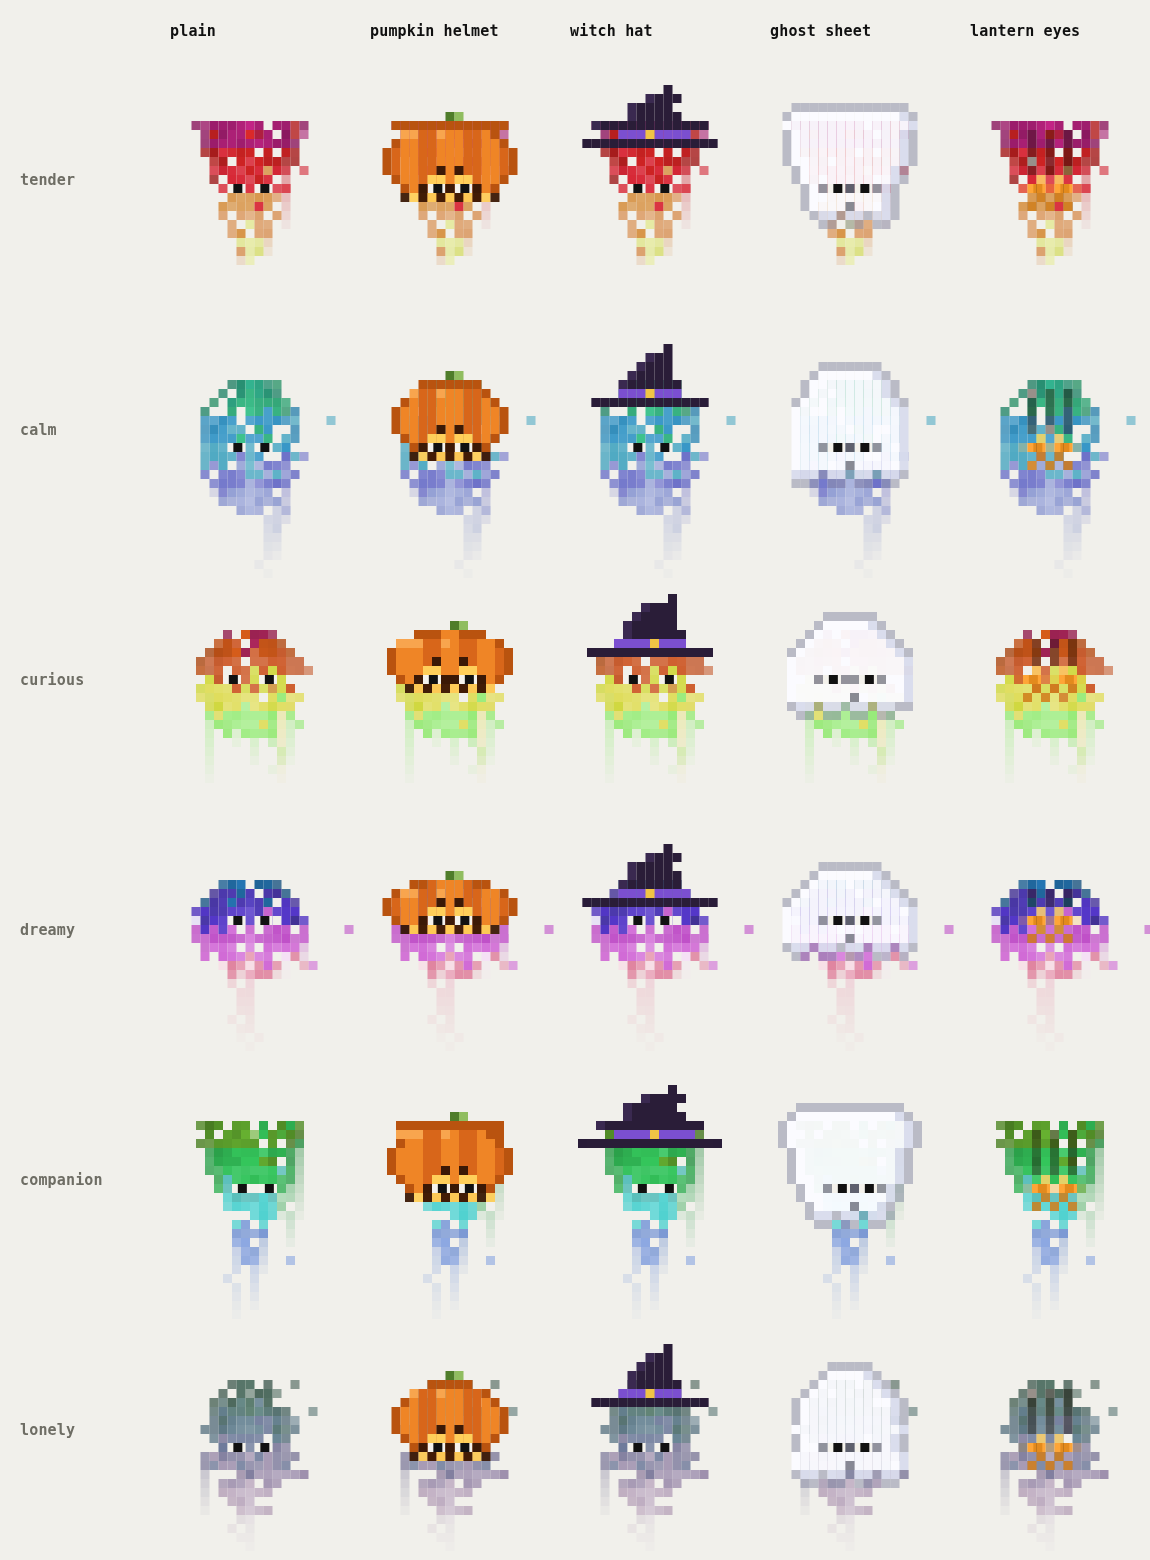
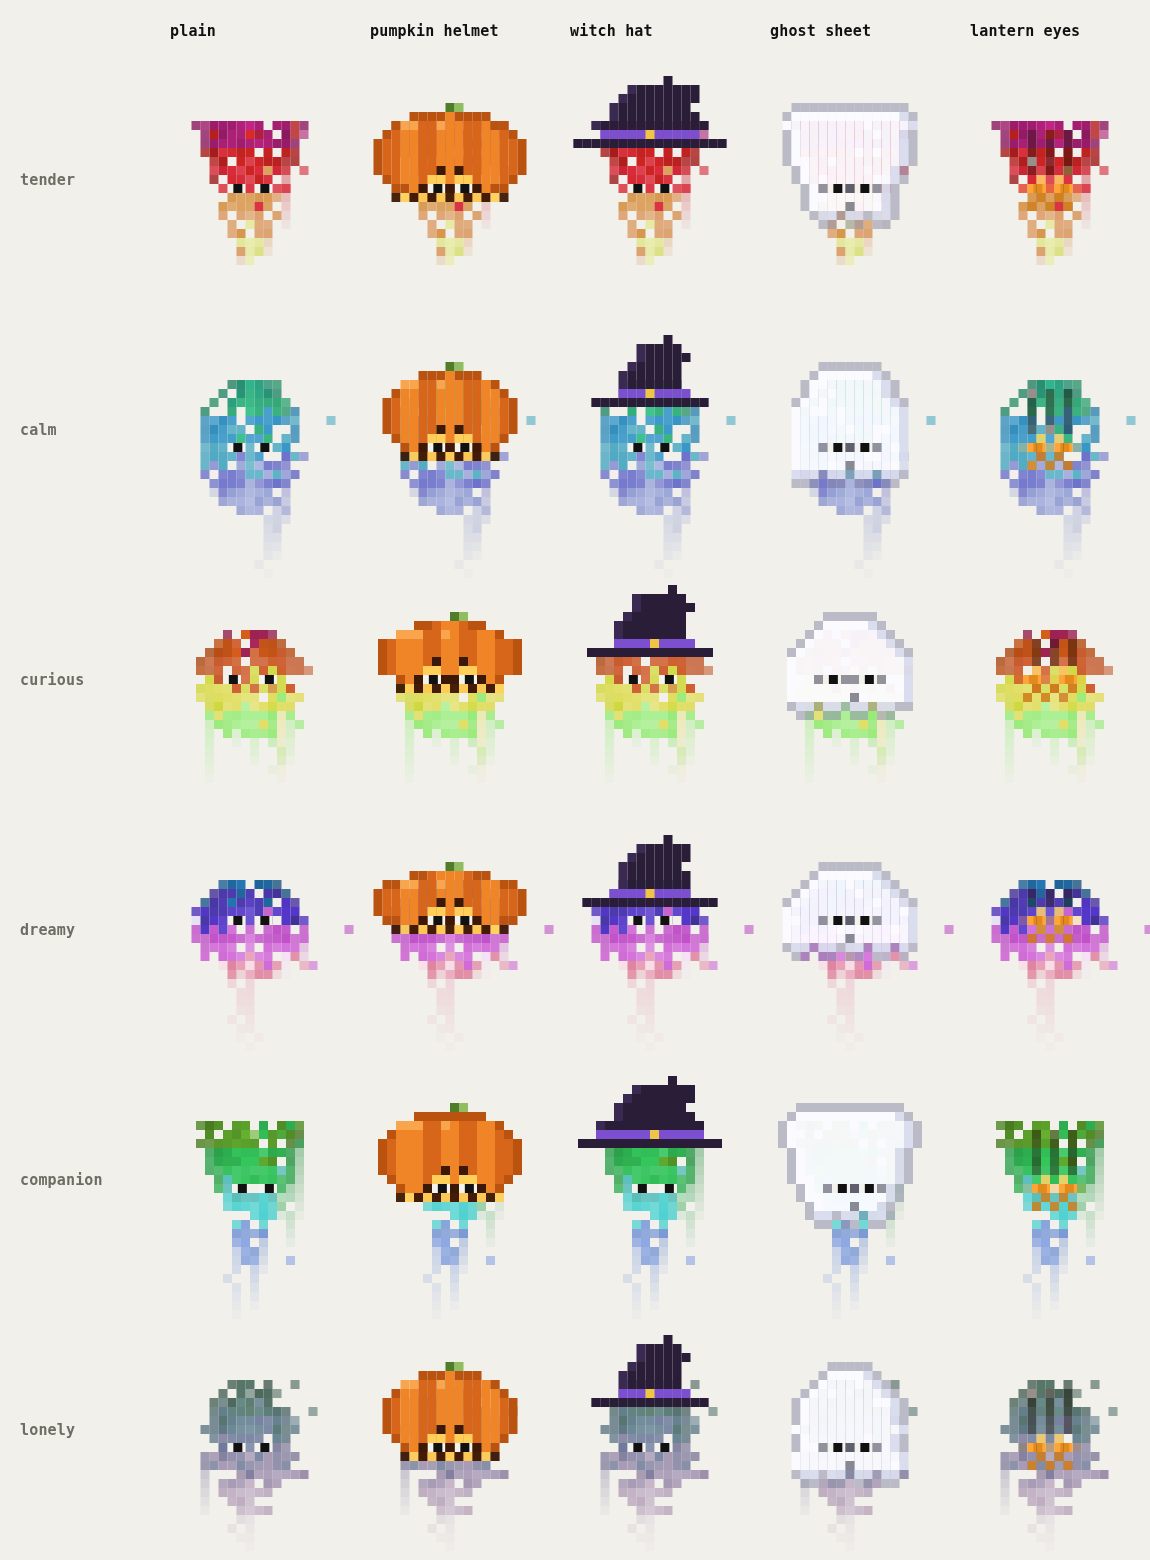
halloween: bigger pumpkin and witch hat that cover the whole cap
Claude-Session: https://claude.ai/code/session_01F351BE8WNbsDJxZJegnrAN

diff --git a/src/core/halloween.ts b/src/core/halloween.ts
@@ -58,10 +58,10 @@ export function drawCostume(g: G, spec: MosaicSpec, ox: number, oy: number, cell
   const er = spec.eyes.row;
   if (kind === 'pumpkin') {
     // a round pumpkin shell over the cap, eyes looking out of carved holes
-    const l = h.left - 1, r = h.right + 1;
-    const t0 = h.top, b = er + 1;
+    const l = h.left - 2, r = h.right + 2;
+    const t0 = h.top - 1, b = er + 1;
     const cx = (l + r) / 2, cy = (t0 + b) / 2;
-    const rx = (r - l) / 2 + 0.5, ry = (b - t0) / 2 + 0.5;
+    const rx = (r - l) / 2 + 0.6, ry = (b - t0) / 2 + 0.6;
     for (let y = t0; y <= b; y++) {
       for (let x = l; x <= r; x++) {
         let d = ((x - cx) / rx) ** 2 + ((y - cy) / ry) ** 2;
@@ -94,29 +94,31 @@ export function drawCostume(g: G, spec: MosaicSpec, ox: number, oy: number, cell
     // so the top of the spore disappears under the crown
     const brim = Math.max(h.top + 1, Math.min(h.top + 2, er - 2));
     let bl = spec.cols, br = -1;
-    for (let c = 0; c < spec.cols; c++) if (spec.mask[brim * spec.cols + c]) { bl = Math.min(bl, c); br = Math.max(br, c); }
+    for (let y = h.top; y <= brim; y++)
+      for (let c = 0; c < spec.cols; c++) if (spec.mask[y * spec.cols + c]) { bl = Math.min(bl, c); br = Math.max(br, c); }
     if (br < bl) { bl = h.left; br = h.right; }
     const l = bl - 2, r = br + 2;
     for (let x = l; x <= r; x++) px(x, brim, '#2a1d38');            // brim
     px(l, brim, '#2a1d38', 0.6); px(r, brim, '#2a1d38', 0.6);
     const band = brim - 1;
-    const w0 = Math.max(4, Math.round((br - bl + 1) * 0.75));
-    const c0 = Math.round((bl + br) / 2 - w0 / 2 + 0.5);
-    for (let x = c0; x < c0 + w0; x++) px(x, band, '#7b4fd0');       // band
+    const w0 = Math.max(5, Math.round((br - bl + 1) * 0.85));
+    let c0 = Math.round((bl + br) / 2 - w0 / 2 + 0.5), c1 = c0 + w0 - 1;
+    for (let c = 0; c < spec.cols; c++) if (spec.mask[band * spec.cols + c]) { c0 = Math.min(c0, c); c1 = Math.max(c1, c); }
+    for (let x = c0; x <= c1; x++) px(x, band, '#7b4fd0');           // band
     px(Math.round((bl + br) / 2), band, '#f0c445');                  // buckle
     // crown: covers every cap cell above the band, then a short cone
     const mid = (bl + br) / 2;
     let w = w0 - 1;
-    for (let k = 1; k <= 4 && w > 0; k++, w--) {
+    for (let k = 1; k <= 5 && w > 0; k++, w -= k % 2 ? 1 : 0) {
       const y = band - k;
-      let cs = Math.round(mid - w / 2 + 0.5) + (k === 4 ? 1 : 0), ce = cs + w - 1;
+      let cs = Math.round(mid - w / 2 + 0.5) + (k >= 4 ? 1 : 0), ce = cs + w - 1;
       if (y >= 0) for (let c = 0; c < spec.cols; c++) if (spec.mask[y * spec.cols + c]) { cs = Math.min(cs, c); ce = Math.max(ce, c); }
       for (let x = cs; x <= ce; x++) px(x, y, x === cs ? '#3a2950' : '#2a1d38');
     }
-    for (let y = band - 5; y >= h.top; y--) {                         // very tall caps
+    for (let y = band - 6; y >= h.top; y--) {                         // very tall caps
       for (let c = 0; c < spec.cols; c++) if (spec.mask[y * spec.cols + c]) px(c, y, '#2a1d38');
     }
-    px(Math.round(mid) + 2, Math.min(band - 5, h.top - 1), '#2a1d38');
+    px(Math.round(mid) + 2, Math.min(band - 6, h.top - 1), '#2a1d38');
   } else if (kind === 'ghost') {
     // a sheet that follows the spore's own silhouette (mask grown by one
     // cell), hanging a few rows past the eyes with a wavy hem
